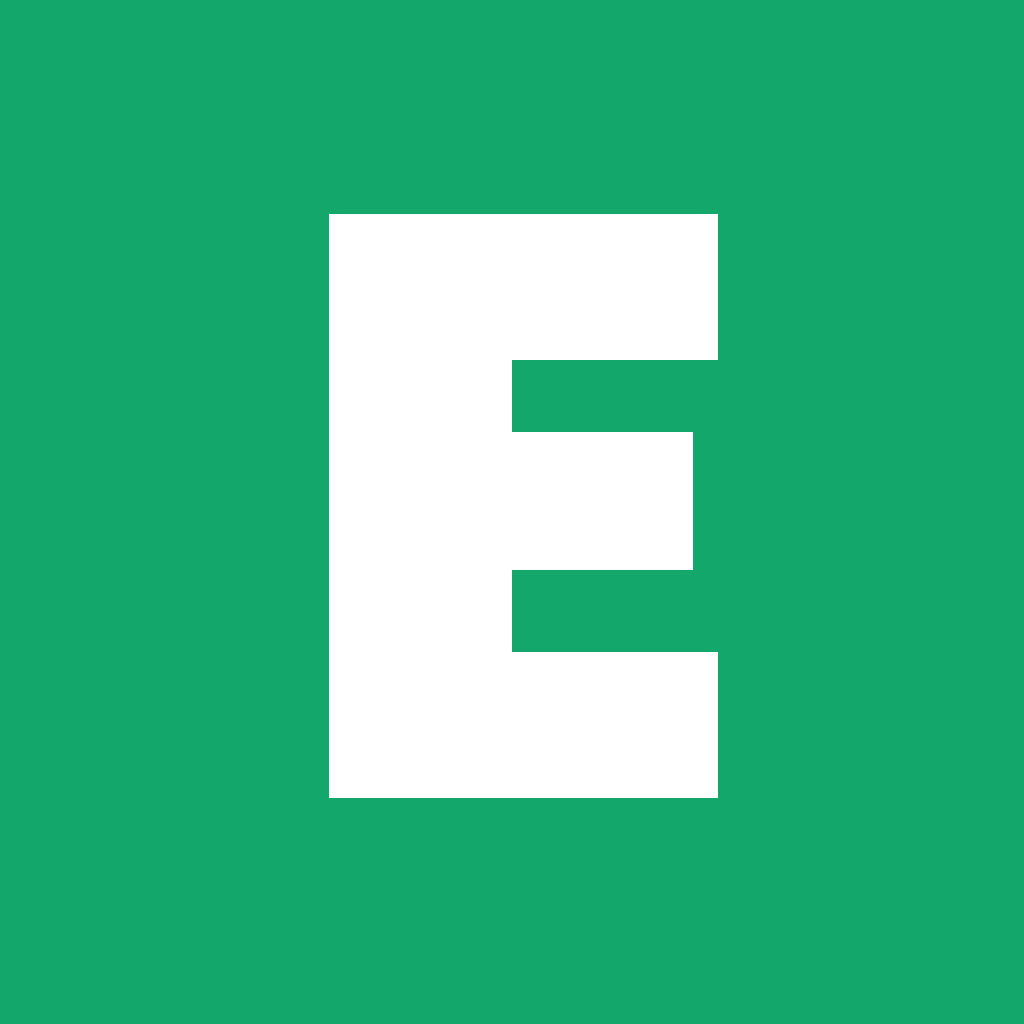
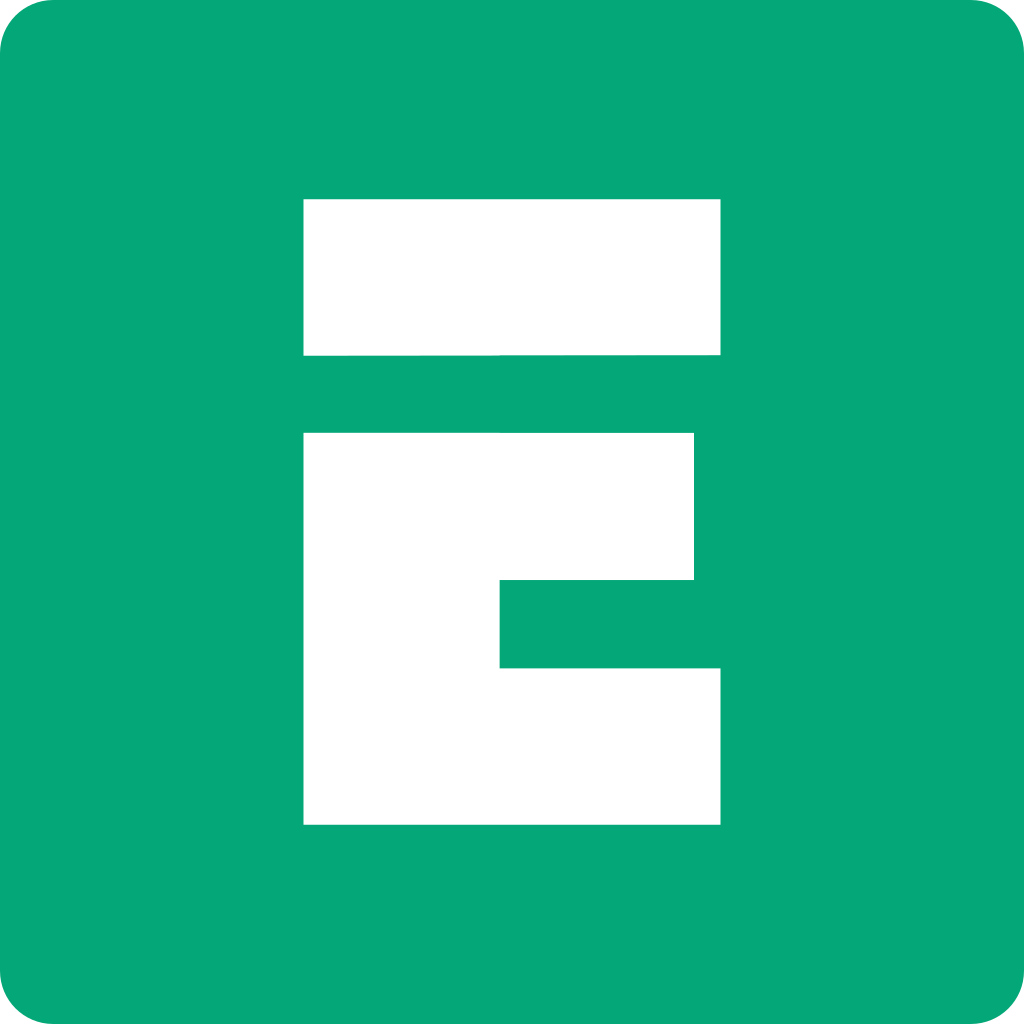
replace images

diff --git a/src/styles/_variables.scss b/src/styles/_variables.scss
@@ -1,6 +1,6 @@
 $color-main-dark: #000000;
 $color-main-light: #fff;
-$color-main-contrast: #14a76c;
+$color-main-contrast: #04a777;
 $color-main-contrast2: #F6F9FB;
 $color-main-borders: darken($color-main-light, 8%);
 $color-background: #f2f4f6;
